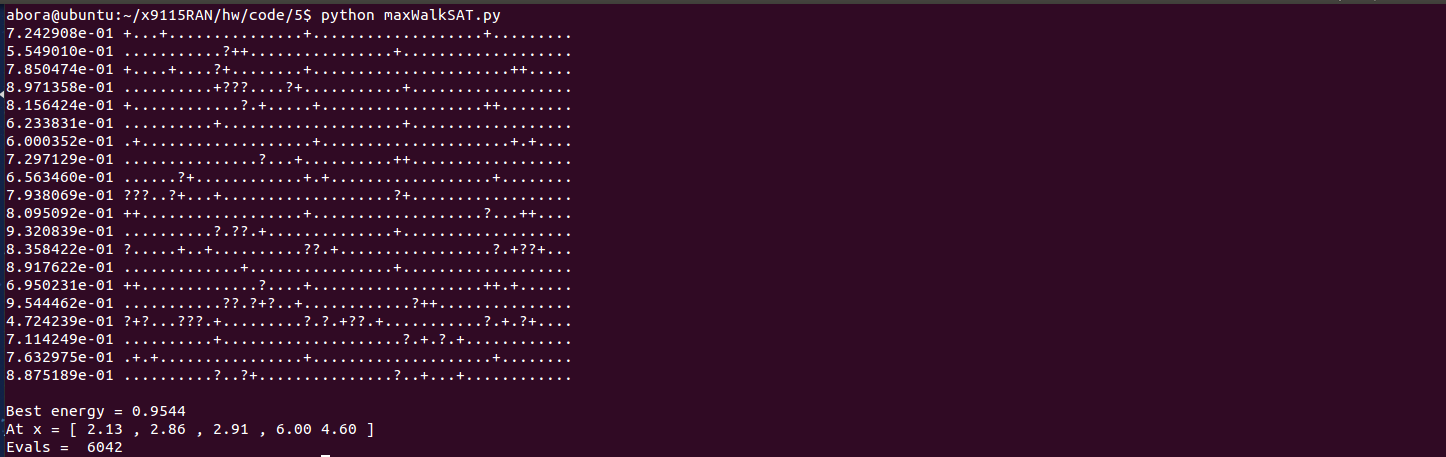
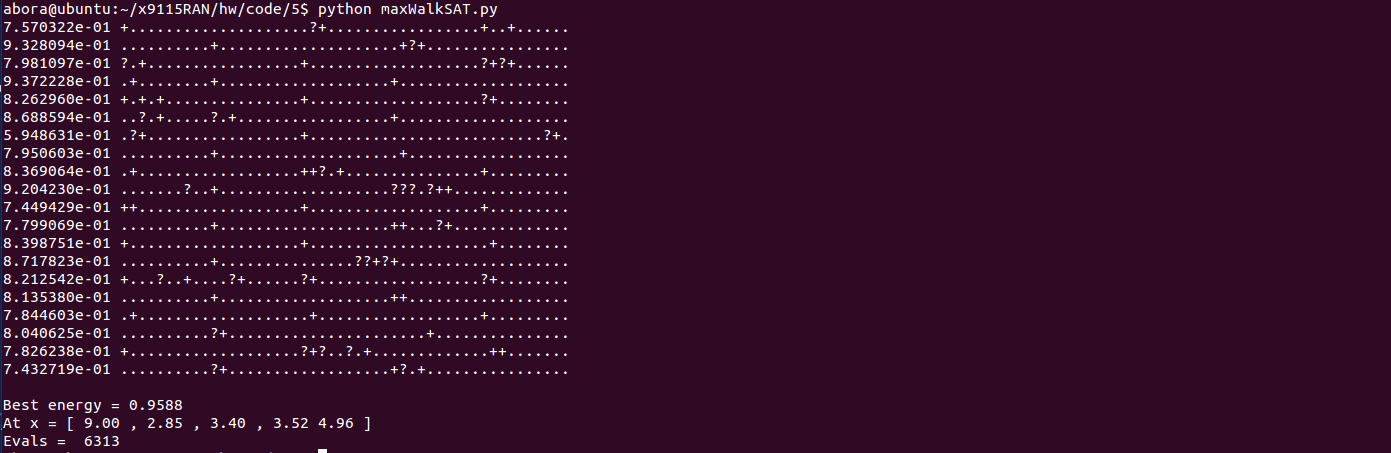
outpur formatting

Changed region(s): [[0.0, 0.0, 1.0, 0.8344], [0.0, 0.8653, 0.2782, 1.0], [0.2164, 0.989, 0.2473, 1.0]]

diff --git a/hw/code/5/maxWalkSAT.py b/hw/code/5/maxWalkSAT.py
@@ -159,7 +159,7 @@ def mws():
 if __name__ == '__main__':
     best = mws()
     print ('\nBest energy = %.4f' % best[1])
-    print ('At x = [' , '%.2f' % best[0][1], ',', '%.2f' % best[0][2],',', '%.2f' % best[0][3], ',', '%.2f' % best[0][4], '%.2f' % best[0][5], ']')
+    print ('At x = [' , '%.2f' % best[0][1], ',', '%.2f' % best[0][2], ',', '%.2f' % best[0][3], ',', '%.2f' % best[0][4], ',', '%.2f' % best[0][5], ']')
     print ('Evals = ' , evals)
     
 #     print ('\nBest Energy = ', best.E(), ' at x = ', best.x)
